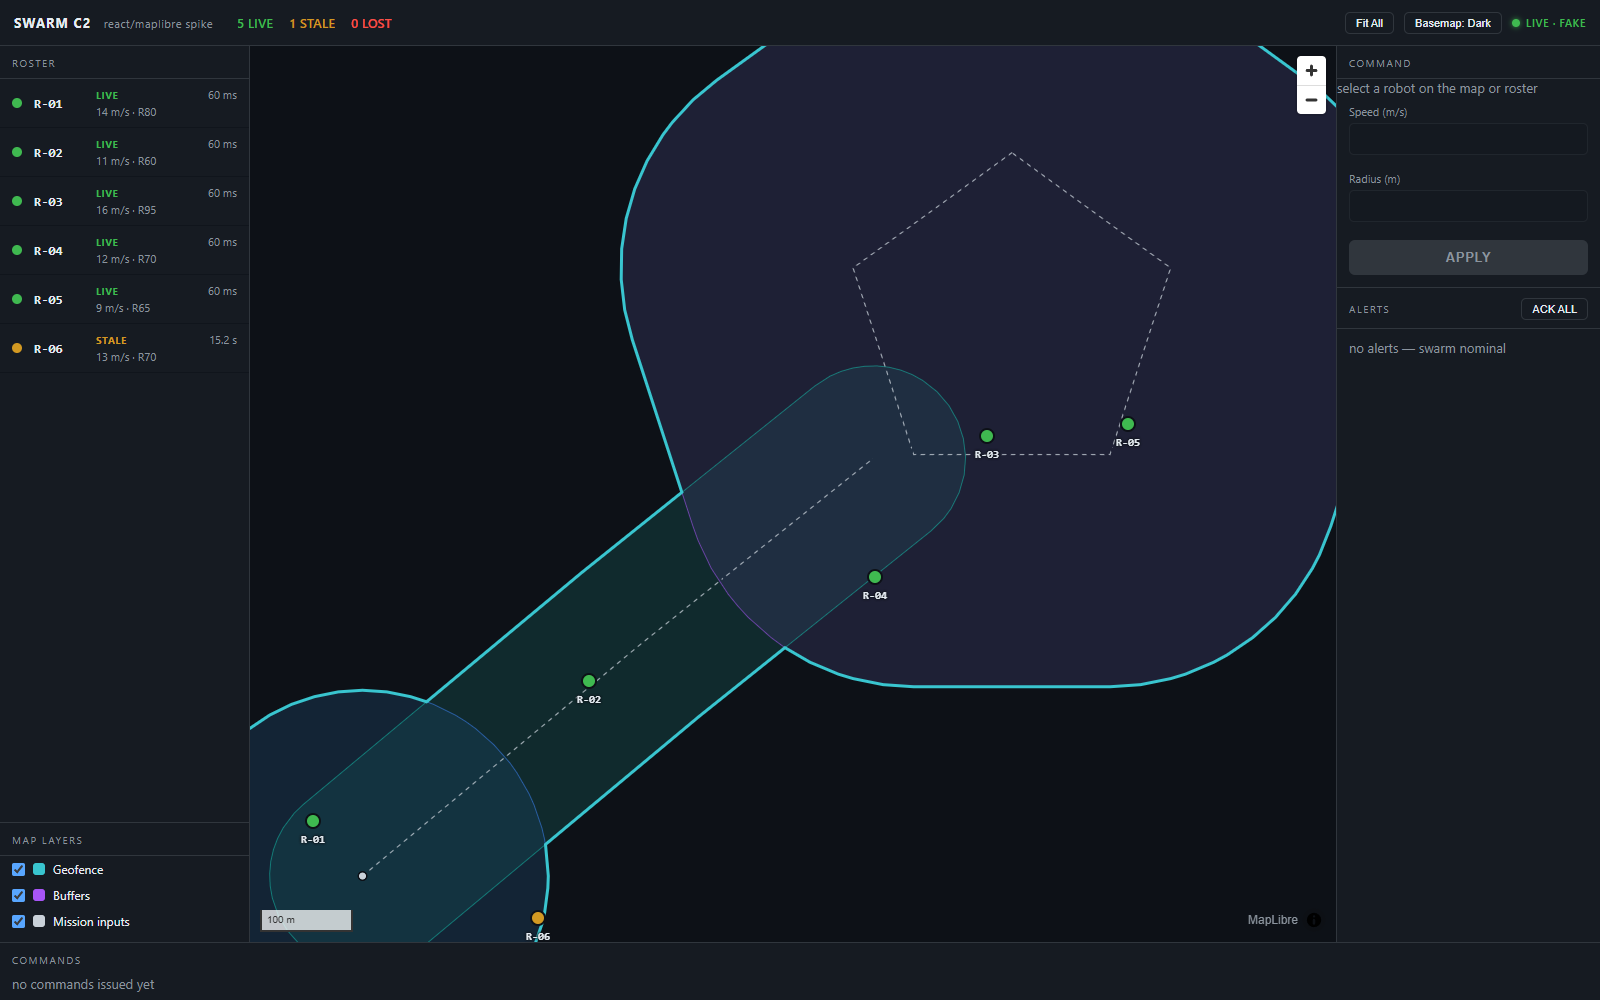
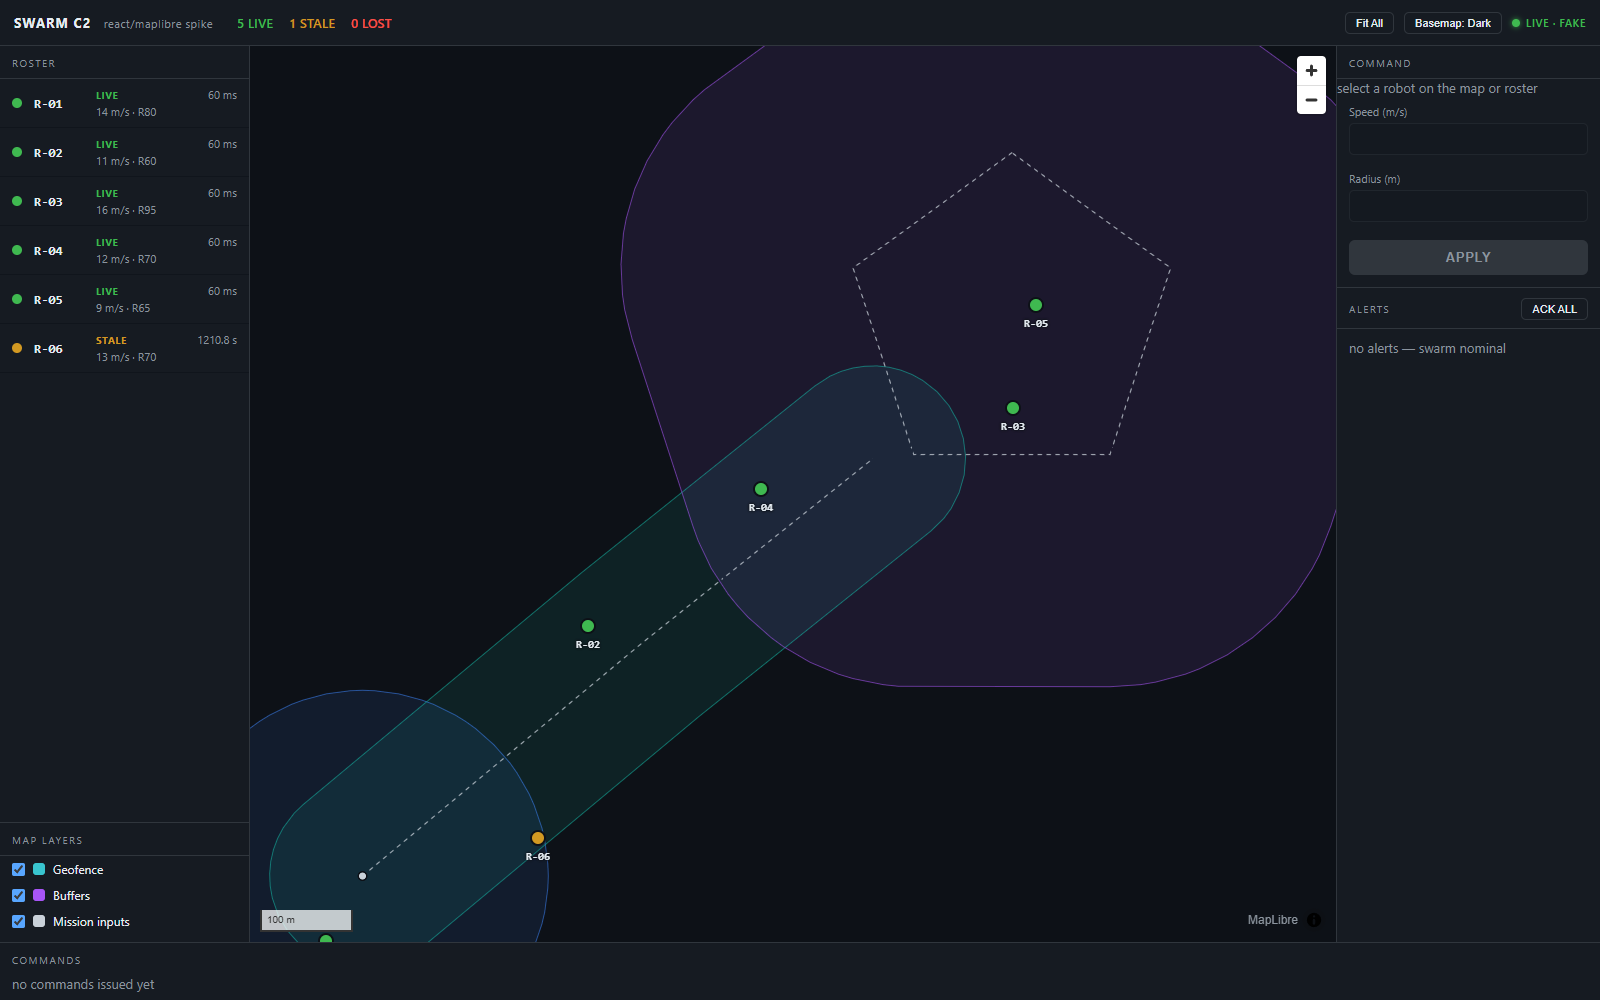
react-spike: fix marker projection drift (position:absolute)
Review (Jim) found: robots rendered progressively SOUTH of the geofence when
zoomed out, so robots whose data said "inside" looked outside; heading ticks
detached from their dots. Root cause: `.robot-marker { position: relative }`
overrode MapLibre's required `.maplibregl-marker { position: absolute }` (our
stylesheet loads after MapLibre's, same specificity), dropping markers into normal
flow so they STACKED vertically -- each offset south by the height of the markers
above it (R-01 ~0px, the 6th ~80px). Invisible at high zoom, glaring zoomed out.

map.project() was correct and the marker transform matched it, yet the element
still landed 80px low -> a flow bug, not projection (the diagnosis: compare
map.project vs the marker's getBoundingClientRect). Fix is one line:
`.robot-marker { position: absolute }`.

Alerts were correct all along -- breach tests the telemetry, not the rendered
pixel. Also added a ResizeObserver -> map.resize() (belt-and-suspenders) and
regenerated the feature screenshots. See gotcha #9 in MORNING_REPORT_REACT.md.

diff --git a/gui/react-spike/web/src/MapView.tsx b/gui/react-spike/web/src/MapView.tsx
@@ -145,6 +145,12 @@ export function MapView({ frame, trailsRef, selected, basemap, fitNonce, layerVi
     map.addControl(new maplibregl.NavigationControl({ showCompass: false }), "top-right");
     map.addControl(new maplibregl.ScaleControl({ unit: "metric" }), "bottom-left");
 
+    // Keep the map's drawing buffer in lockstep with its (flex-sized) container so
+    // it stays correct when the window resizes. (MapLibre tracks this itself too;
+    // this is belt-and-suspenders.)
+    const ro = new ResizeObserver(() => map.resize());
+    ro.observe(containerRef.current);
+
     map.on("load", () => {
       // ---- mission geometry (UNDER the robots): fills first, bold fence on top
       map.addSource("mission-inputs", { type: "geojson", data: fence.inputs });
@@ -193,6 +199,7 @@ export function MapView({ frame, trailsRef, selected, basemap, fitNonce, layerVi
     });
 
     return () => {
+      ro.disconnect();
       markersRef.current.forEach((m) => m.remove());
       markersRef.current.clear();
       map.remove();

diff --git a/gui/react-spike/web/src/styles.css b/gui/react-spike/web/src/styles.css
@@ -214,7 +214,12 @@ button.apply:disabled { background: var(--border); color: var(--muted); cursor: 
 .muted.small { font-size: 11px; margin-top: 4px; font-weight: 400; }
 
 /* ---- robot markers (DOM, over the map canvas) ---- */
-.robot-marker { position: relative; width: 16px; height: 16px; cursor: pointer; }
+/* MUST stay position:absolute — MapLibre positions markers by transform out of
+   normal flow. A `position: relative` here (our stylesheet loads after MapLibre's,
+   same specificity) drops them back INTO flow, so they stack vertically and each
+   renders offset south by the height of the markers above it. Kept absolute; the
+   absolutely-positioned .marker-label still anchors to this element. */
+.robot-marker { position: absolute; width: 16px; height: 16px; cursor: pointer; }
 .marker-dot {
   display: block;
   width: 16px;

diff --git a/gui/react-spike/MORNING_REPORT_REACT.md b/gui/react-spike/MORNING_REPORT_REACT.md
@@ -262,6 +262,20 @@ Open `http://localhost:5173`. The top-right badge shows the seam: **FAKE** vs
    1's "circle layers don't render" note — the real culprit was the GeoJSON worker,
    not the layer type. DOM markers for the dots are still the right call at this
    scale.)
+9. **`position: relative` on a MapLibre marker element silently breaks all marker
+   positions** (found by Jim in review). Our marker CSS used
+   `.robot-marker { position: relative }` (to anchor the label child). But our
+   stylesheet loads *after* MapLibre's, same specificity, so it overrode
+   MapLibre's required `.maplibregl-marker { position: absolute }`. Relative markers
+   stay in normal flow and **stack vertically**, so each robot rendered offset
+   *south* by the height of the markers above it (R-01 ≈ 0 px, the 6th robot
+   ≈ 80 px) — invisible at high zoom, glaring zoomed out, and it makes robots
+   *look* outside the fence when their data says inside (the alerts, which read the
+   data, were correct all along). Fix: `.robot-marker { position: absolute }`. The
+   diagnosis that nailed it: log `map.project(lngLat)` vs the marker's real
+   `getBoundingClientRect()` — the transform matched the projection but the element
+   still landed 80 px low, which points at flow, not projection. (A single marker
+   hides this — you need several to see the stack.)
 8. **First-sighting-outside is a design decision, not just a demo hack.** The
    headless capture window is ~1.5 s, far too short to reliably *witness* an
    inside→outside transition. That forced a good question: should the AlertEngine
